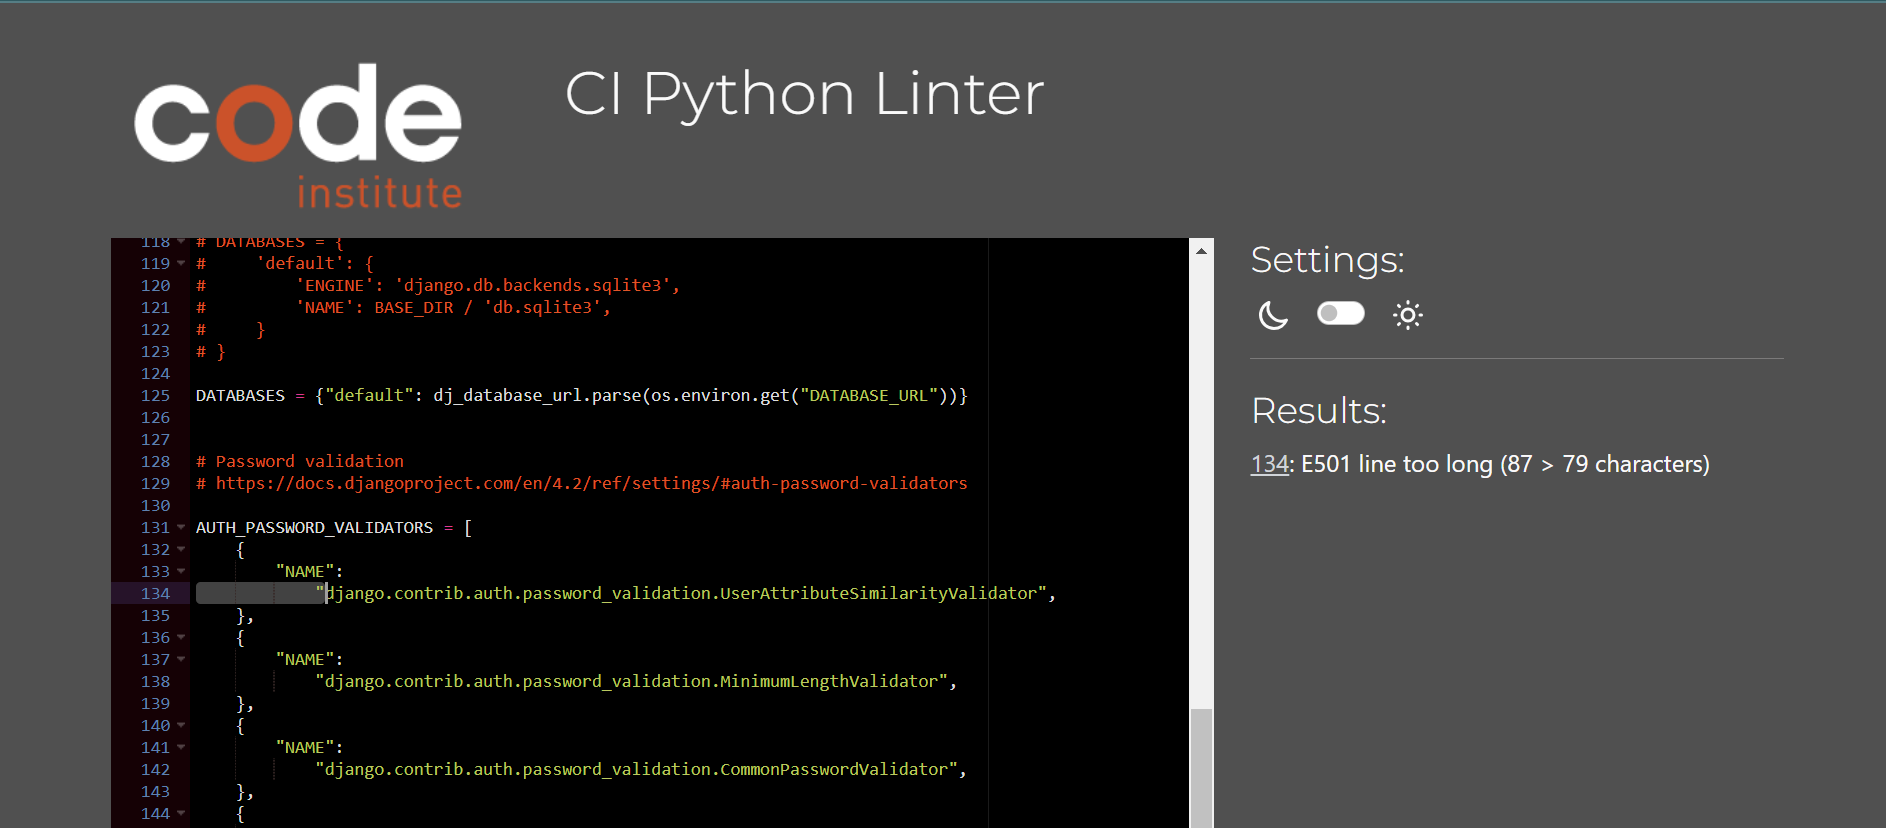
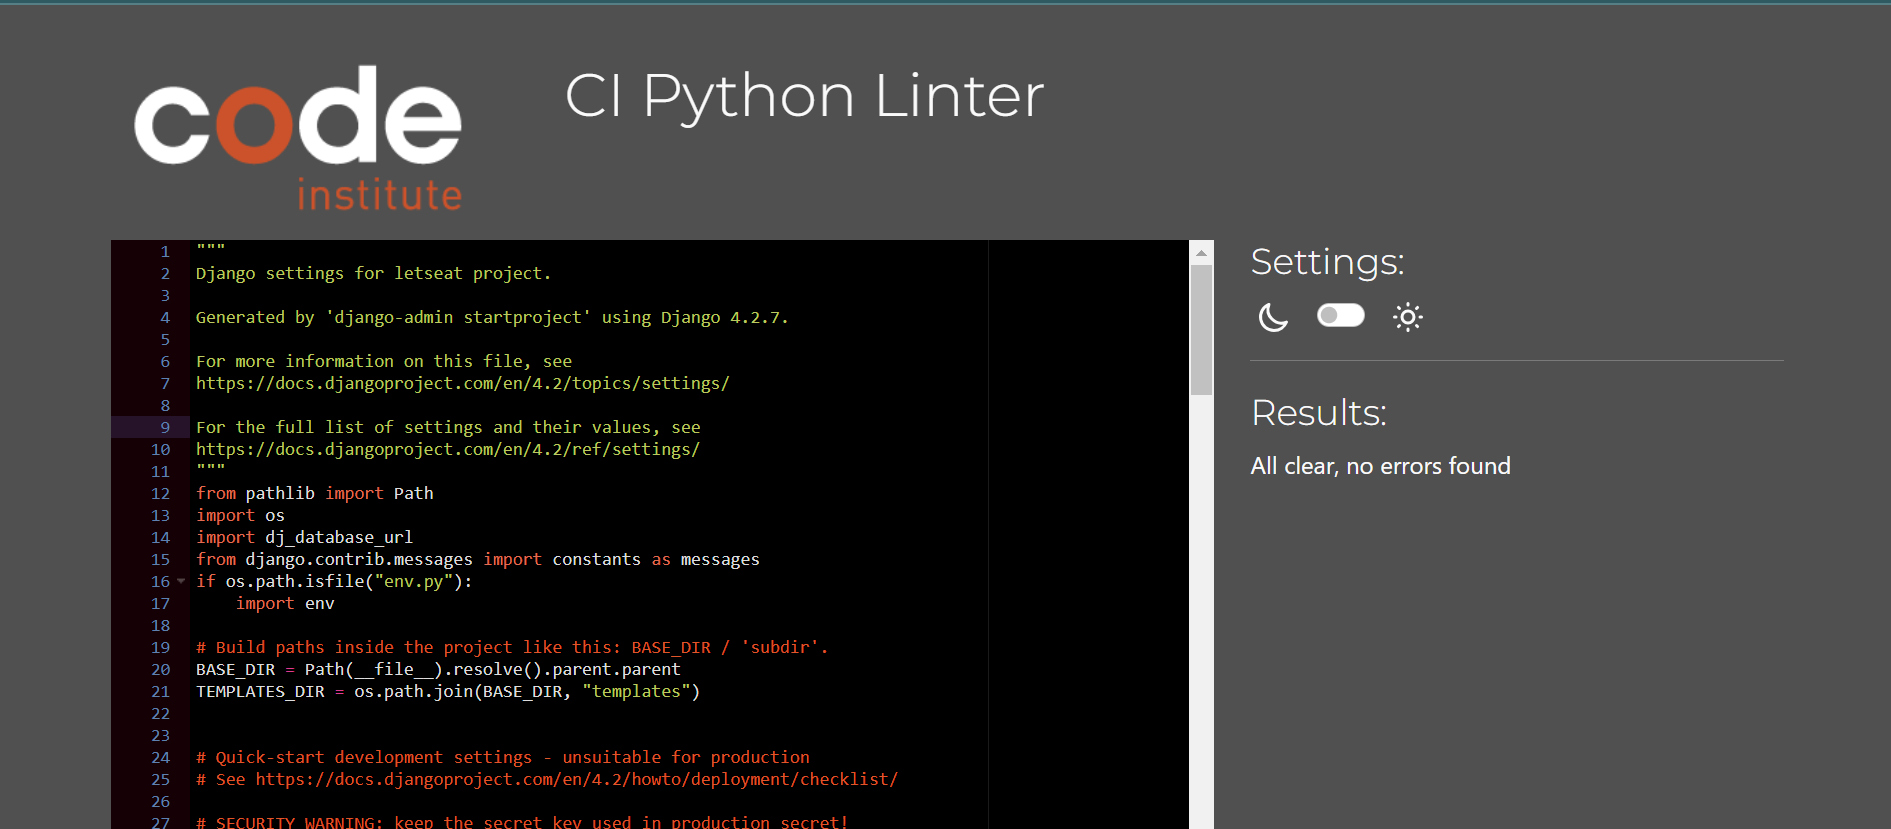
feat: add feature testing testing

diff --git a/blog/views.py b/blog/views.py
@@ -61,6 +61,7 @@ class RecipeDetail(View):
             liked = True
 
         comment_form = CommentForm(data=request.POST)
+
         if comment_form.is_valid():
             comment = comment_form.save(commit=False)
             comment_form.instance.email = request.user.email

diff --git a/TESTING.md b/TESTING.md
@@ -200,7 +200,7 @@ The [Code Institute Python Linter](https://pep8ci.herokuapp.com)was used to vali
 
 | File | Screenshot  | Notes|
 | --- | ------ |:---:|
-| settings.py |  <img src="readme/documentation/validation/python/letseat/settings.png">  | Pass - Line too long due to AUTH_PASSWORD_VALIDATORS|
+| settings.py |  <img src="readme/documentation/validation/python/letseat/settings.png">  | Pass |
 | urls.py (main) |  <img src="readme/documentation/validation/python/letseat/urls.png">  | Pass |
 | views.py | <img src="readme/documentation/validation/python/letseat/views.png">  | Pass |
 
@@ -222,7 +222,6 @@ The [Code Institute Python Linter](https://pep8ci.herokuapp.com)was used to vali
 ## USER STORIES TESTING
 
 <details>
-<summary>👇</summary>
 
 The implemented User Stories were tested during the development of this project and also after it was finished with the below user acceptance testing:
 
@@ -276,7 +275,6 @@ As an administrator for the site I want to be able to:
 | see who commented what under each post so that I can see what the Site Users think of specific recipes and how they might change them. | Pass |
 | see how many likes a post has received so that I can see what recipes are most popular. | Pass |
 
-
 </details>
 
 - - -
@@ -284,15 +282,6 @@ As an administrator for the site I want to be able to:
 ## FEATURES TESTING
 
 <details>
-<summary>👇</summary>
-
-The features were manually tested as defensive programming during the development of this project and also after it was finished with the below user acceptance testing:
-
-
- Video recorded with testing:
-  
-![Click here to watch](https://github.com/luandretta/network/assets/113333171/bc92614c-b519-40a2-8570-186dfa59dde2)
-
 
 | Page | User Action | Expected Result| Notes |
 | --- | --- | --- | --- |
@@ -320,85 +309,51 @@ The features were manually tested as defensive programming during the developmen
 | | Click Login button (username provided) | Password required | Pass |
 | | Click Login button (valid username and invalid password provided) | Username and/or password incorrect | Pass |
 | | Click Login button (invalid username provided) | username and/or password incorrect  | Pass |
-| | Enter valid email address in username field | field will only accept valid username | Pass |
+| | Enter user email address in username field | field will only accept valid username | Pass |
 | | Enter valid password | Field will only accept password format | Pass |
 | | Click Login button with all valid information | Redirection to Index page and displays message | Pass |
 | | Click on Sign Up link | Redirection to Sign Up page | Pass |
 | | Click Cancel button | Redirection to Index page | Pass |
-
 | **Log Out** |  |  |  |
 | | click on dropdown menu, then log out | Redirects to log out page | Pass |
 | | Click to confirm to sign out  | Redirects to landing page and displays message with the sign out confirmation | Pass |
 | | Click Cancel button | Redirection to Index page | Pass |
-
 | **All Recipes** |  |  |  |
-| | Create a post only with text as content | New post only with text is created | Pass |
-| | Create a post only with picture | User is prompted to type something into the content field before sending | Pass |
-| | Create a post with text and picture | New post with text and picture is created | Pass |
-| | Click send on new post form without adding content | User is prompted to enter something into the field before sending | Pass |
-| | Click on a post | User will be redirected to the post detail page | Pass |
-| | Click on the username on a post | User will be redirected to the post author's profile | Pass |
-| | Click the like button on a post | Like button will fill with colour and the like count will increase by 1, Post author receives a notification letting them know someone has liked their post | Pass  |
-| | Click the like button on a post already liked by the user | Like button will become clear in the middle like count will decrease by 1 | Pass |
-| | Click the dislike button on a post | Dislike button will fill with colour and the dislike count will increase by 1 | Pass  |
-| | Click the dislike button on a post already liked by the user | Dislike button will become clear in the middle dislike count will decrease by 1 | Pass  |
-| | Click edit icon on own post | User is redirected to post edit page | Pass   |
-| | Click delete icon on own post | User is redirected to post delete confirmation page | Pass  |
-| | Click on the pagination | Change the pages correctly | Pass |
+| | Click anywhere on a recipe card | User will be redirected to the Single Recipe page | Pass |
 | **Single Recipe** |  |  |  |
-| | Create a post only with text as content | New post only with text is created | Pass |
-| | Create a post only with picture | User is prompted to type something into the content field before sending | Pass |
-| | Create a post with text and picture | New post with text and picture is created | Pass |
-| | Click send on new post form without adding content | User is prompted to enter something into the field before sending | Pass |
-| | Click on a post | User will be redirected to the post detail page | Pass |
-| | Click on the username on a post | User will be redirected to the post author's profile | Pass |
-| | Click the like button on a post | Like button will fill with colour and the like count will increase by 1, Post author receives a notification letting them know someone has liked their post | Pass  |
-| | Click the like button on a post already liked by the user | Like button will become clear in the middle like count will decrease by 1 | Pass |
-| | Click the dislike button on a post | Dislike button will fill with colour and the dislike count will increase by 1 | Pass  |
-| | Click the dislike button on a post already liked by the user | Dislike button will become clear in the middle dislike count will decrease by 1 | Pass  |
-| | Click edit icon on own post | User is redirected to post edit page | Pass   |
-| | Click delete icon on own post | User is redirected to post delete confirmation page | Pass  |
-| | Click on the pagination | Change the pages correctly | Pass |
-| **Add Recipe** |  |  |  |
-| | Create a post only with text as content | New post only with text is created | Pass |
-| | Create a post only with picture | User is prompted to type something into the content field before sending | Pass |
-| | Create a post with text and picture | New post with text and picture is created | Pass |
-| | Click send on new post form without adding content | User is prompted to enter something into the field before sending | Pass |
-| | Click on a post | User will be redirected to the post detail page | Pass |
-| | Click on the username on a post | User will be redirected to the post author's profile | Pass |
-| | Click the like button on a post | Like button will fill with colour and the like count will increase by 1, Post author receives a notification letting them know someone has liked their post | Pass  |
-| | Click the like button on a post already liked by the user | Like button will become clear in the middle like count will decrease by 1 | Pass |
-| | Click the dislike button on a post | Dislike button will fill with colour and the dislike count will increase by 1 | Pass  |
-| | Click the dislike button on a post already liked by the user | Dislike button will become clear in the middle dislike count will decrease by 1 | Pass  |
-| | Click edit icon on own post | User is redirected to post edit page | Pass   |
-| | Click delete icon on own post | User is redirected to post delete confirmation page | Pass  |
-| | Click on the pagination | Change the pages correctly | Pass |
-| **Edit Recipe** | | | | 
-| | Fill in post form and click submit | Original post can be edited | Pass | 
-| | Click on the Back To Post button | User will be redirected to the original post | Pass | 
-| **Delete Recipe** | | | | 
-| | Click on the Delete button | Post will be permanently deleted | Pass | 
-| | Click on the Back To Post button | User will be redirected to the original post | Pass | 
-| **Comments on Recipe** | | | | 
-| | Comment a post | New comment is created, the post author is notificated | Pass |
-| | Click submit on new comment form without adding content | User is prompted to enter something into the field before sending | Pass |
-| | Click the like button on a post already liked by the user | Like button will become clear in the middle like count will decrease by 1 | Pass |
-| | Click the dislike button on a post | Dislike button will fill with colour and the dislike count will increase by 1 | Pass  |
-| | Click the dislike button on a post already liked by the user | Dislike button will become clear in the middle dislike count will decrease by 1 | Pass   |
-| | Click edit icon on own comment | User is redirected to comment edit page | Pass  |
-| | Click delete icon on own comment | User is redirected to comment delete confirmation page | Pass  |
-| | Click on the username on a comment | User will be redirected to the comment author's profile | Pass | 
-| | Click on the comment icon | Open a form to reply the comment | Pass | 
-| | Click edit icon on own comment | User is redirected to comment edit page | Pass | 
-| | Click delete icon on own comment | User is redirected to comment delete page | Pass | 
-| | Click on the pagination | Change the pages correctly | Pass |
-| | Attempt to delete a comment as admin | Admin is redirected to  delete page | Pass |
-| | Brute forcing the URL to delete another user's comment if not on your post | Redirects user to error page | Pass | 
+| | Click the like icon on a recipe if not logged in | Like count remains unchanged | Pass  |
+| | Click the like button on a recipe that the user hasn't liked before | Like count will increase by 1 | Pass |
+| | Click the like button on a recipe already liked by the user | Like count will decrease by 1 | Pass |
+| | Click delete on recipe (only visable to admin)  | User is redirected to Delete Recipe confirmation page | Pass  |
+| | Click edit on recipe (only visable to admin) | User is redirected to Edit Recipe page | Pass   |
+| | Brute forcing the URL to delete recipe if not logged in | Redirects user to login page | Pass | 
+| | Brute forcing the URL to delete recipe while logged in (NOT admin) | Redirects user to error page | Pass |
+| | Brute forcing the URL to edit recipe if not logged in | Redirects user to login page | Pass | 
+| | Brute forcing the URL to edit recipe while logged in not as (NOT admin) | Redirects user to error page | Pass |
+| **Comments on Single Recipe** | | | | 
+| | Comment a recipe if not logged in| Feature not available, user promted to log in | Pass |
+| | Click submit on new comment form on a recipe | New comment is created | Pass |
+| | Click submit on new comment form without adding content | User is prompted to enter something into the field before submitting | Pass |
+| | Click edit on own comment (only visable to comment user) | User is redirected to comment edit page | Pass  |
+| | Click delete on own comment (only visable to comment user) | User is redirected to comment delete confirmation page | Pass  |
+| | Brute forcing the URL to delete another user's comment if not logged in | Redirects user to login page | Pass | 
+| | Brute forcing the URL to delete another user's comment while logged in | Redirects user to error page | Pass |
+| | Brute forcing the URL to edit another user's comment if not logged in | Redirects user to login page | Pass | 
+| | Brute forcing the URL to edit another user's comment while logged in | Redirects user to error page | Pass | 
 | **Edit Comment** | | | | 
 | | Fill in comment form and click submit | Original comment will be edited User will be redirected to the All Recipes | Pass | 
-| | Click on the Back To Post button | User will be redirected to the All Recipes| Pass | 
+| | Click on the Cancel button | User will be redirected to All Recipes| Pass | 
 | **Delete Comment** | | | | 
-| | Click on the Delete button | Comment or reply will be permanently deleted and User will be redirected to the All Recipes | Pass | 
+| | Click on the Delete button | Comment or reply will be permanently deleted and User will be redirected to All Recipes | Pass | 
+| | Click on the Cancel button | User will be redirected to All Recipes | Pass |  
+| **Add Recipe** |  |  |  |
+| | Click Submit on add recipe form without adding content | User is prompted to enter something into each field before submitting | Pass |
+| | Click Cancel on add recipe form | User will be redirected to All Recipes | Pass |
+| **Edit Recipe** | | | | 
+| | Fill in post form and click submit | Original recipe can be edited and User will be redirected to the All Recipes | Pass | 
+| | Click on the Cancel button | User will be redirected to the All Recipes | Pass | 
+| **Delete Recipe** | | | | 
+| | Click on the Delete button | Recipes will be permanently deleted and User will be redirected to the All Recipes | Pass | 
 | | Click on the Cancel button | User will be redirected to the All Recipes | Pass | 
 | **Error Pages** | | | | 
 | | Click on Home button | User will be redirected to Index page | Pass | 
@@ -408,7 +363,6 @@ The features were manually tested as defensive programming during the developmen
 | | Click on Youtube Icon | Opens new tab to Youtube | Pass |
 | | Click on Instagram Icon | Opens new tab to Instagram | Pass |
 | | Click on Linkedin Icon | Opens new tab to LinkedIn | Pass |
-
 
 </details>
 
